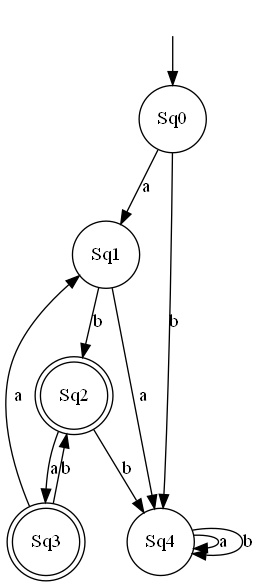
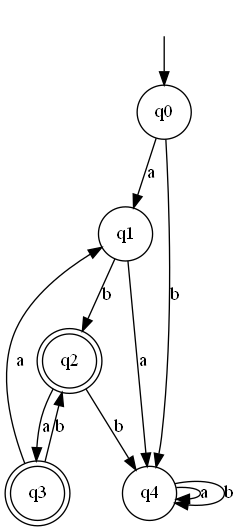
Little changes to the Graph formatting

Changed region(s): [[0.0, 0.0603, 0.952, 0.9944], [0.224, 0.6629, 0.336, 0.693]]

diff --git a/ProjectFormeleMethodes/Visualization/GraphViz.cs b/ProjectFormeleMethodes/Visualization/GraphViz.cs
@@ -1,18 +1,17 @@
 using ProjectFormeleMethodes.NDFA;
 using ProjectFormeleMethodes.NDFA.Transitions;
 using ProjectFormeleMethodes.Visualization;
-using QuikGraph.Graphviz;
 using System;
 using System.Collections.Generic;
-/* TODO: Add graphviz files...
-using GraphVizWrapper;
-using GraphVizWrapper.Commands;
-using GraphVizWrapper.Queries;
-*/
 
 namespace ProjectFormeleMethodes
 {
-    class GraphViz
+    /// <summary>
+    /// 
+    /// Credits to https://github.com/MaurodeLyon/Formele-methoden/blob/master/Formele%20methoden/GraphVizParser.cs
+    /// 
+    /// </summary>
+    public class GraphVizEngine
     {
         public static void PrintGraph(Automata<string> data, string filename)
         {
@@ -32,7 +31,7 @@ namespace ProjectFormeleMethodes
 
             foreach (string t in finalStates)
             {
-                toPrint += " " + ("S" + t) + " ";
+                toPrint += " " + (t) + " ";
             }
             toPrint += "; ";
             toPrint += " ";
@@ -40,12 +39,12 @@ namespace ProjectFormeleMethodes
 
             foreach (string state in startStates)
             {
-                toPrint += " " + ("SSS") + "-> " + ("S" + state);
+                toPrint += " " + ("SSS") + "-> " + (state);
             }
 
             foreach (Transition<string> t in transitions)
             {
-                toPrint += " " + ("S" + t.FromState) + " -> " + ("S" + t.ToState) + " " + "[ label = " + "\"" +
+                toPrint += " " + (t.FromState) + " -> " + (t.ToState) + " " + "[ label = " + "\"" +
                            t.Symbol + "\"" + " ];";
             }
             toPrint += " }";

diff --git a/ProjectFormeleMethodes/Program.cs b/ProjectFormeleMethodes/Program.cs
@@ -21,7 +21,7 @@ namespace ProjectFormeleMethodes
             Console.WriteLine("Test: " + a.ToString());
             TestAutomata.ExampleSlide8Lesson2();
 
-            GraphViz.PrintGraph(a, "TestGraph");
+            GraphVizEngine.PrintGraph(a, "TestGraph");
 
             //TestRegExpAndThompson();
             //TestLanguage();
